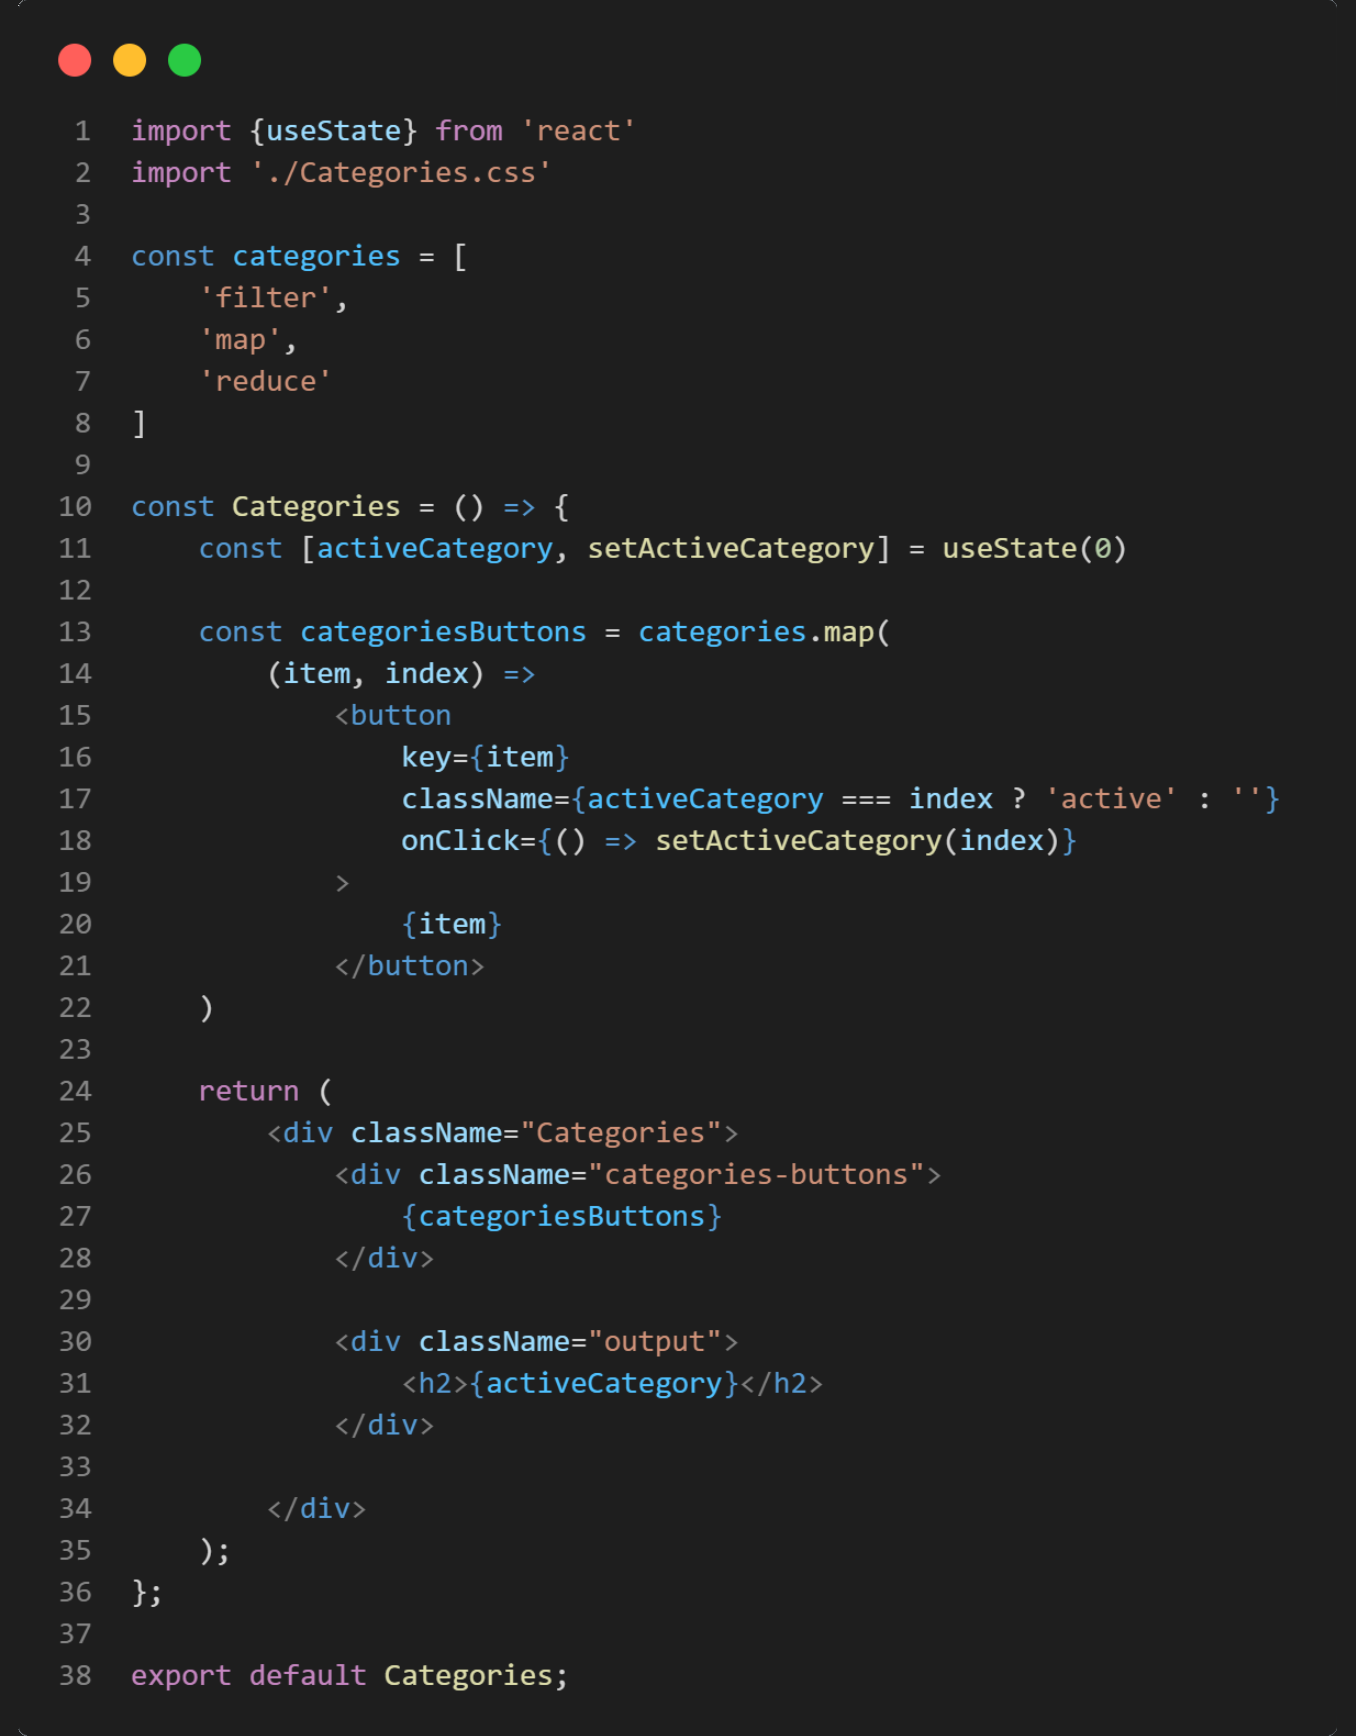
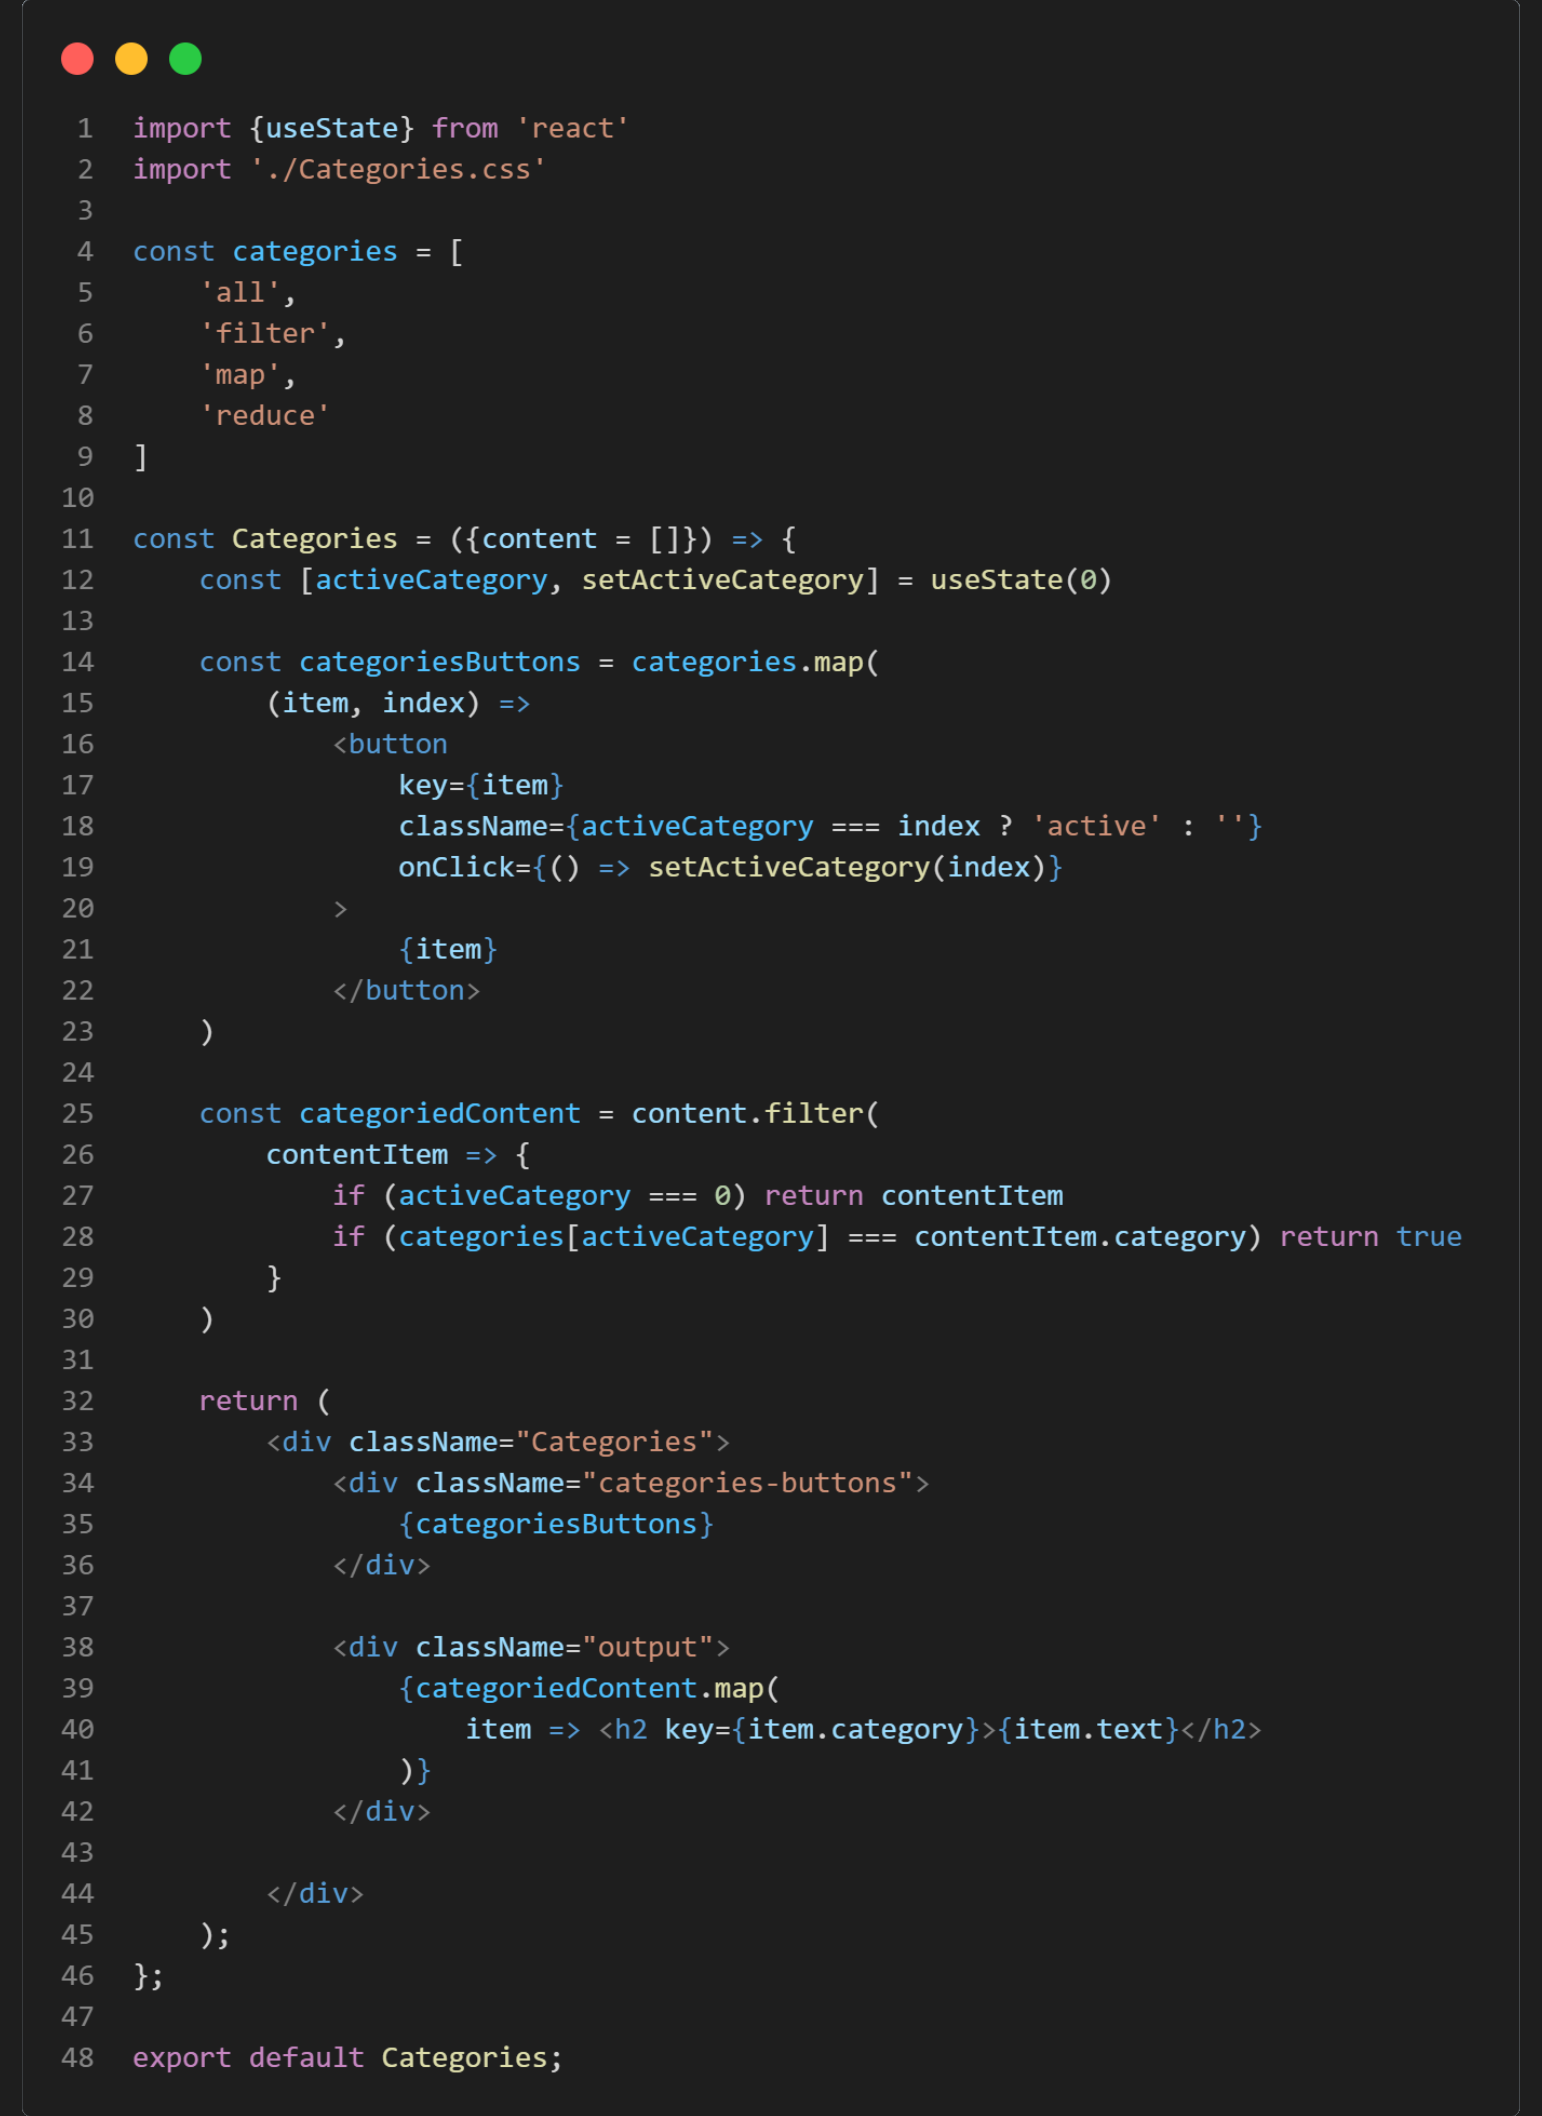
v9.2

diff --git a/src/App.js b/src/App.js
@@ -85,7 +85,7 @@ const content = [
   {image: digitalClock, caption: 'Digital clock', text: {ua: 'Інтерактивний годинник, котрий зроблений за допомогою setInterval()', en: 'An interactive clock made using setInterval()'}, link: '#', type: 'exercise', code: '<!DOCTYPE html> <html lang="en"> <head> <meta charset="UTF-8"> <meta http-equiv="X-UA-Compatible" content="IE=edge"> <meta name="viewport" content="width=device-width, initial-scale=1.0"> <title>Document</title> </head> <body> <div class="clock"></div> <script> setInterval(() => { let date = new Date() const clock = document.querySelector(".clock") clock.innerHTML = date.getHours() + ":" + date.getMinutes() + ":" + date.getSeconds() }) </script> </body> </html>'},  
   {image: switchCase, caption: 'switch', text: {ua: 'switch - це цикл, що зрівнює вирази з випадками, перерахованими у середені її, а потім випонює відповідне інструкції', en: 'switch is a loop that compares expressions with the cases listed in its environment and then issues the corresponding statement'}, link: 'https://developer.mozilla.org/ru/docs/Web/JavaScript/Reference/Statements/switch', type: 'cycle', code: "function getDirection(language) { switch (language) { case 'JS': case 'TS': return 'FrontEnd' break case 'C#': return 'BackEnd' break case 'Python': return 'Data Science' break default: return 'Language is undefind' } } console.log(getDirection('JS')) // > FrontEnd console.log(getDirection('Python')) // > Data Science console.log(getDirection('Dart')) // > Language is undefind"},
   {image: reactSearchPattern, caption: 'React Search Pattern', text: {ua: 'Цей паттерн проєктування передбачає пошуковий інпут куди через атрибут onChange() передається подію, тобто літери для пошуку. Далі ці літери переходять до useState() з допомогою якого і робиться оброблення пошукового запиту', en: 'This design pattern provides a search input where an event is passed through the onChange() attribute, i.e. the letters to search for. Next, these letters go to useState(), which is used to process the search query'}, link: '#', type: 'React Pattern', code: "import {useState} from 'react' const Filter = ({content = []}) => { const [value, setValue] = useState('') const filteredContent = content.filter( item => { return item.caption.toLowerCase().includes(value.toLowerCase()) } ) return ( <div className='Filter'> <input type='text' onChange={(event) => setValue(event.target.value)} /> <div className='output'> <ul> {filteredContent.length === 0 ? <h4>Nothing has found</h4> : filteredContent.map( item => <li key={item.caption}>{item.caption} {item.text}</li> )} </ul> </div> </div> ) } export default Filter"},
-  {image: categoryReactPattern, caption: 'React Categories Pattern', text: {ua: 'Цей паттерн проєктування передабачає набір різноманітних кнопок, що можуть змінювати категорії. Це все проходить за допомогою useState(), куди записуються початковий індекс стандартної катергорії', en: 'This design pattern provides a set of various buttons that can change categories. This is all done using useState(), where the initial index of the standard category is written'}, link: '#', type: 'React Pattern', code: "import {useState} from 'react' import './Categories.css' const categories = [ 'filter', 'map', 'reduce' ] const Categories = () => { const [activeCategory, setActiveCategory] = useState(0) const categoriesButtons = categories.map( (item, index) => <button key={item} className={activeCategory === index ? 'active' : ''} onClick={() => setActiveCategory(index)} > {item} </button> ) return ( <div className='Categories'> <div className='categories-buttons'> {categoriesButtons} </div> <div className='output'> <h2>{activeCategory}</h2> </div> </div> ); }; export default Categories;"}
+  {image: categoryReactPattern, caption: 'React Categories Pattern', text: {ua: 'Цей паттерн проєктування передабачає набір різноманітних кнопок, що можуть змінювати категорії. Це все проходить за допомогою useState(), куди записуються початковий індекс стандартної катергорії', en: 'This design pattern provides a set of various buttons that can change categories. This is all done using useState(), where the initial index of the standard category is written'}, link: '#', type: 'React Pattern', code: `import {useState} from 'react' import './Categories.css' const categories = [ 'all', 'filter', 'map', 'reduce' ] const Categories = ({content = []}) => { const [activeCategory, setActiveCategory] = useState(0) const categoriesButtons = categories.map( (item, index) => <button key={item} className={activeCategory === index ? 'active' : ''} onClick={() => setActiveCategory(index)} > {item} </button> ) const categoriedContent = content.filter( contentItem => { if (activeCategory === 0) return contentItem if (categories[activeCategory] === contentItem.category) return true } ) return ( <div className="Categories"> <div className="categories-buttons"> {categoriesButtons} </div> <div className="output"> {categoriedContent.map( item => <h2 key={item.category}>{item.text}</h2> )} </div> </div> ); }; export default Categories;`}
 ]
 
 function App() {

diff --git a/README.md b/README.md
@@ -94,3 +94,7 @@ Some addictions to code
 ### `v9.1`
 
 New posts. New category item is 'React Pattern'
+
+### `v9.2`
+
+Some addictions to post
